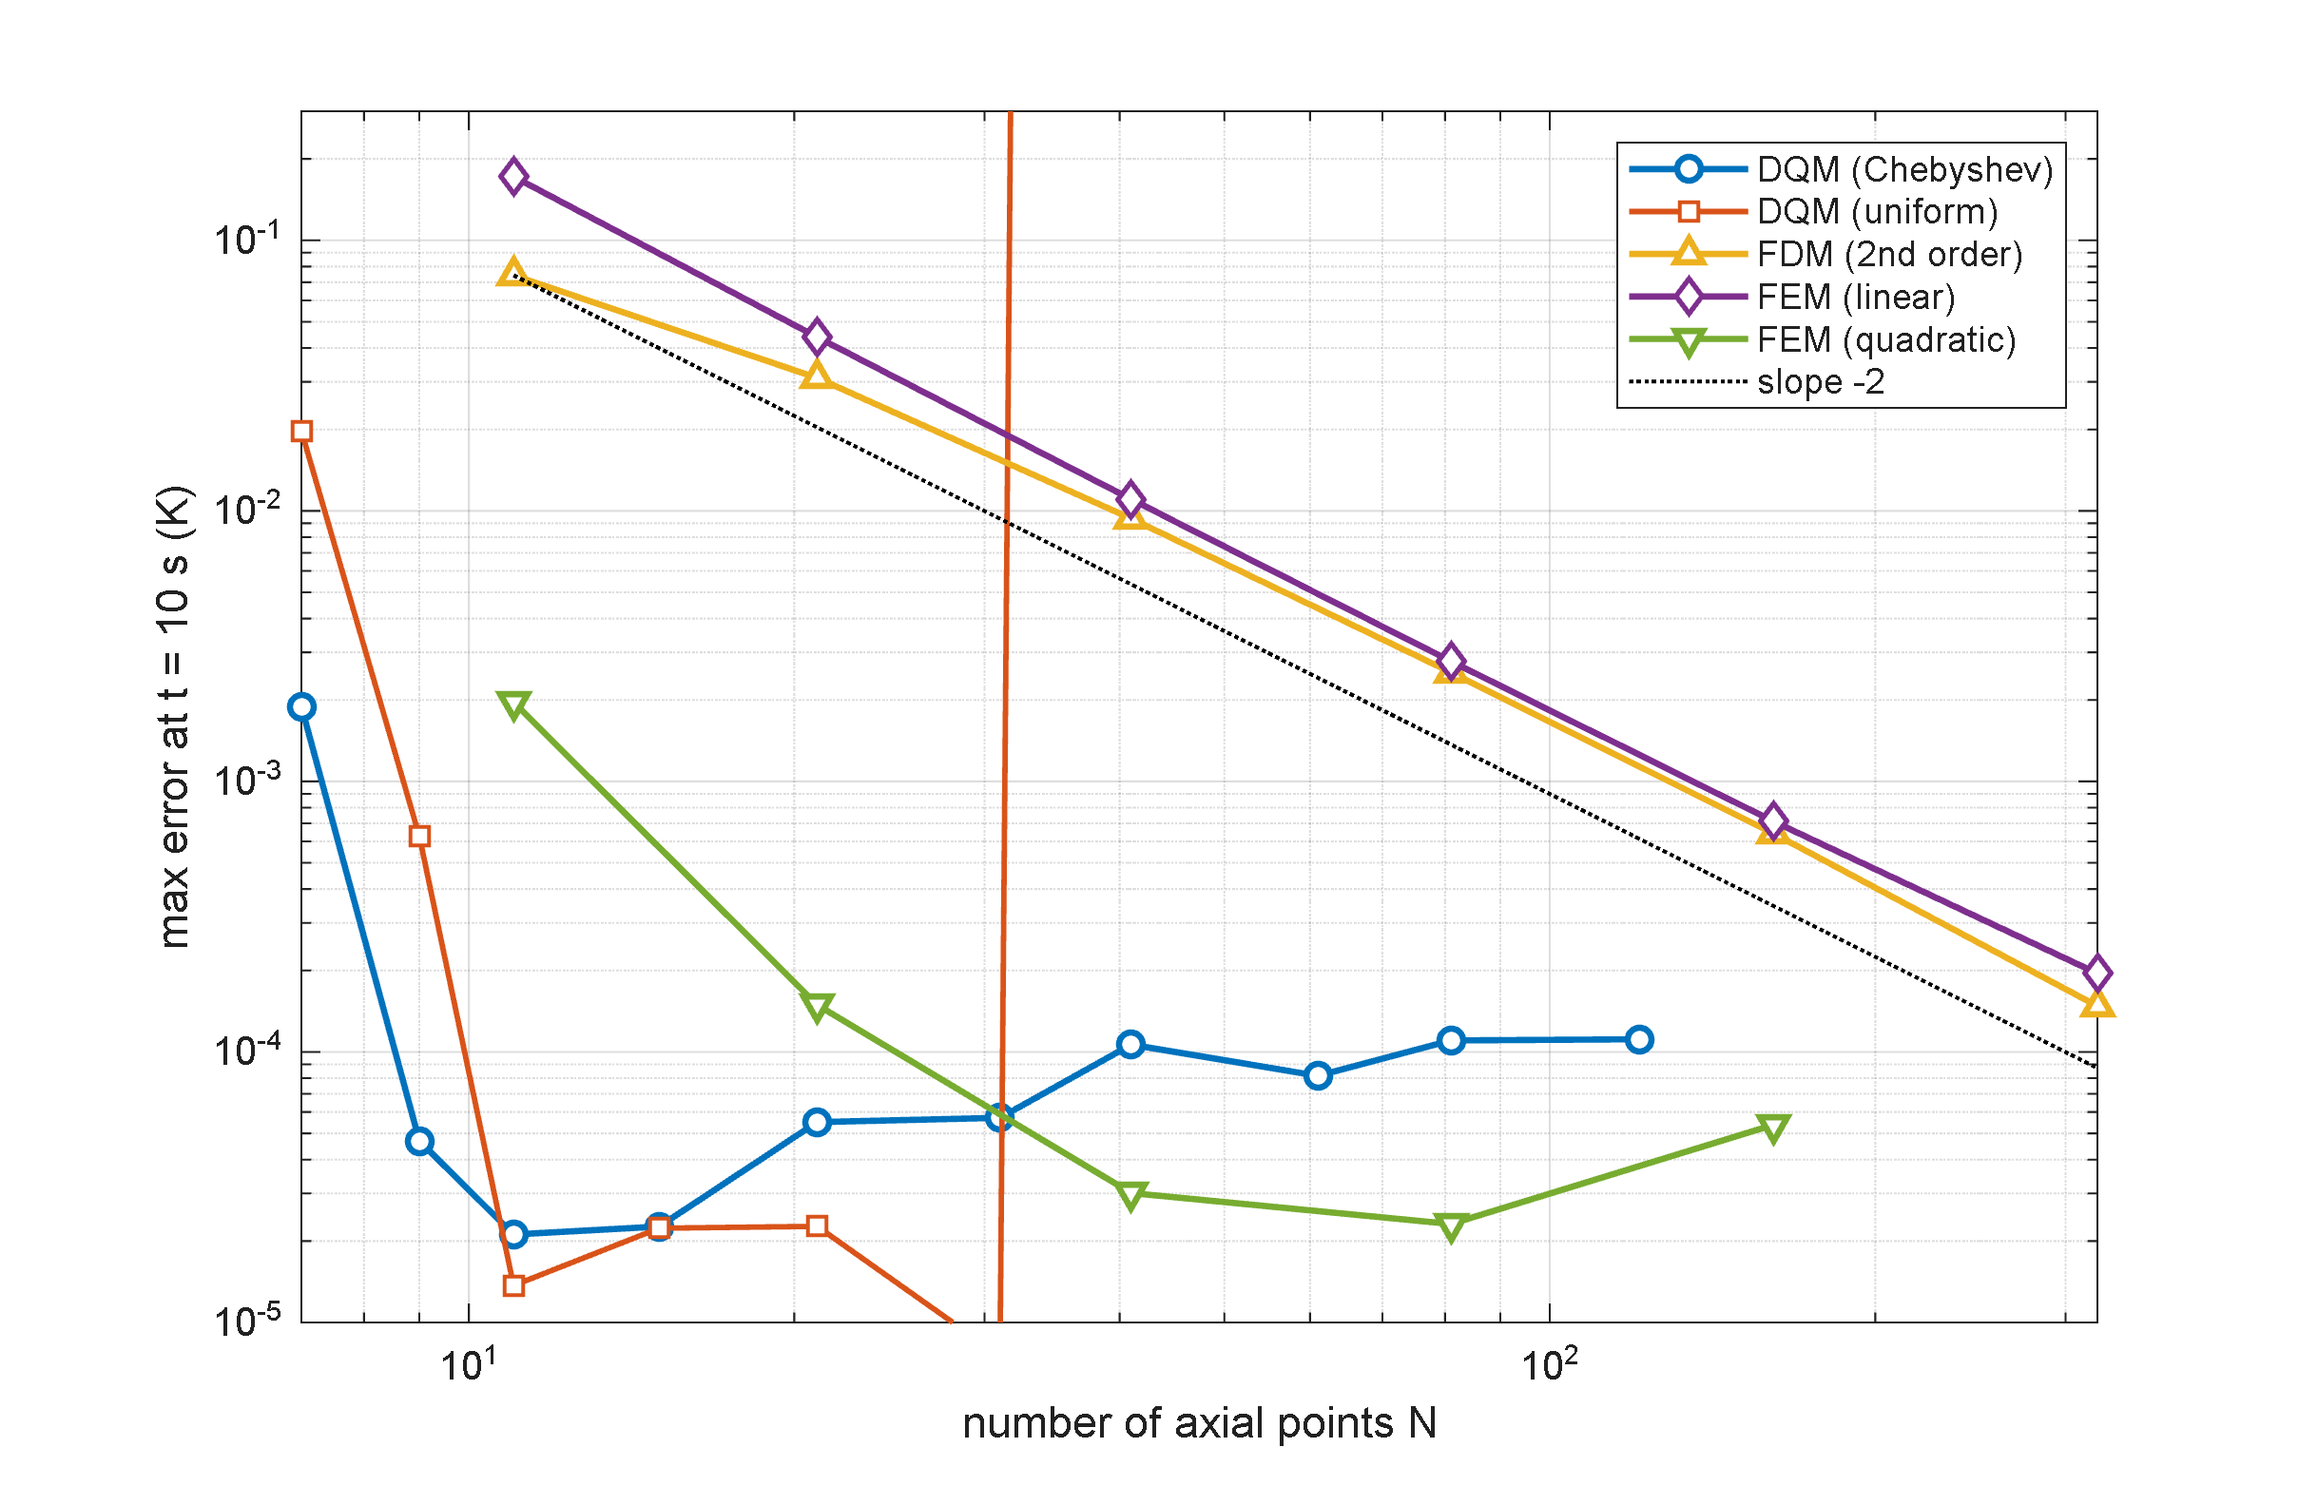
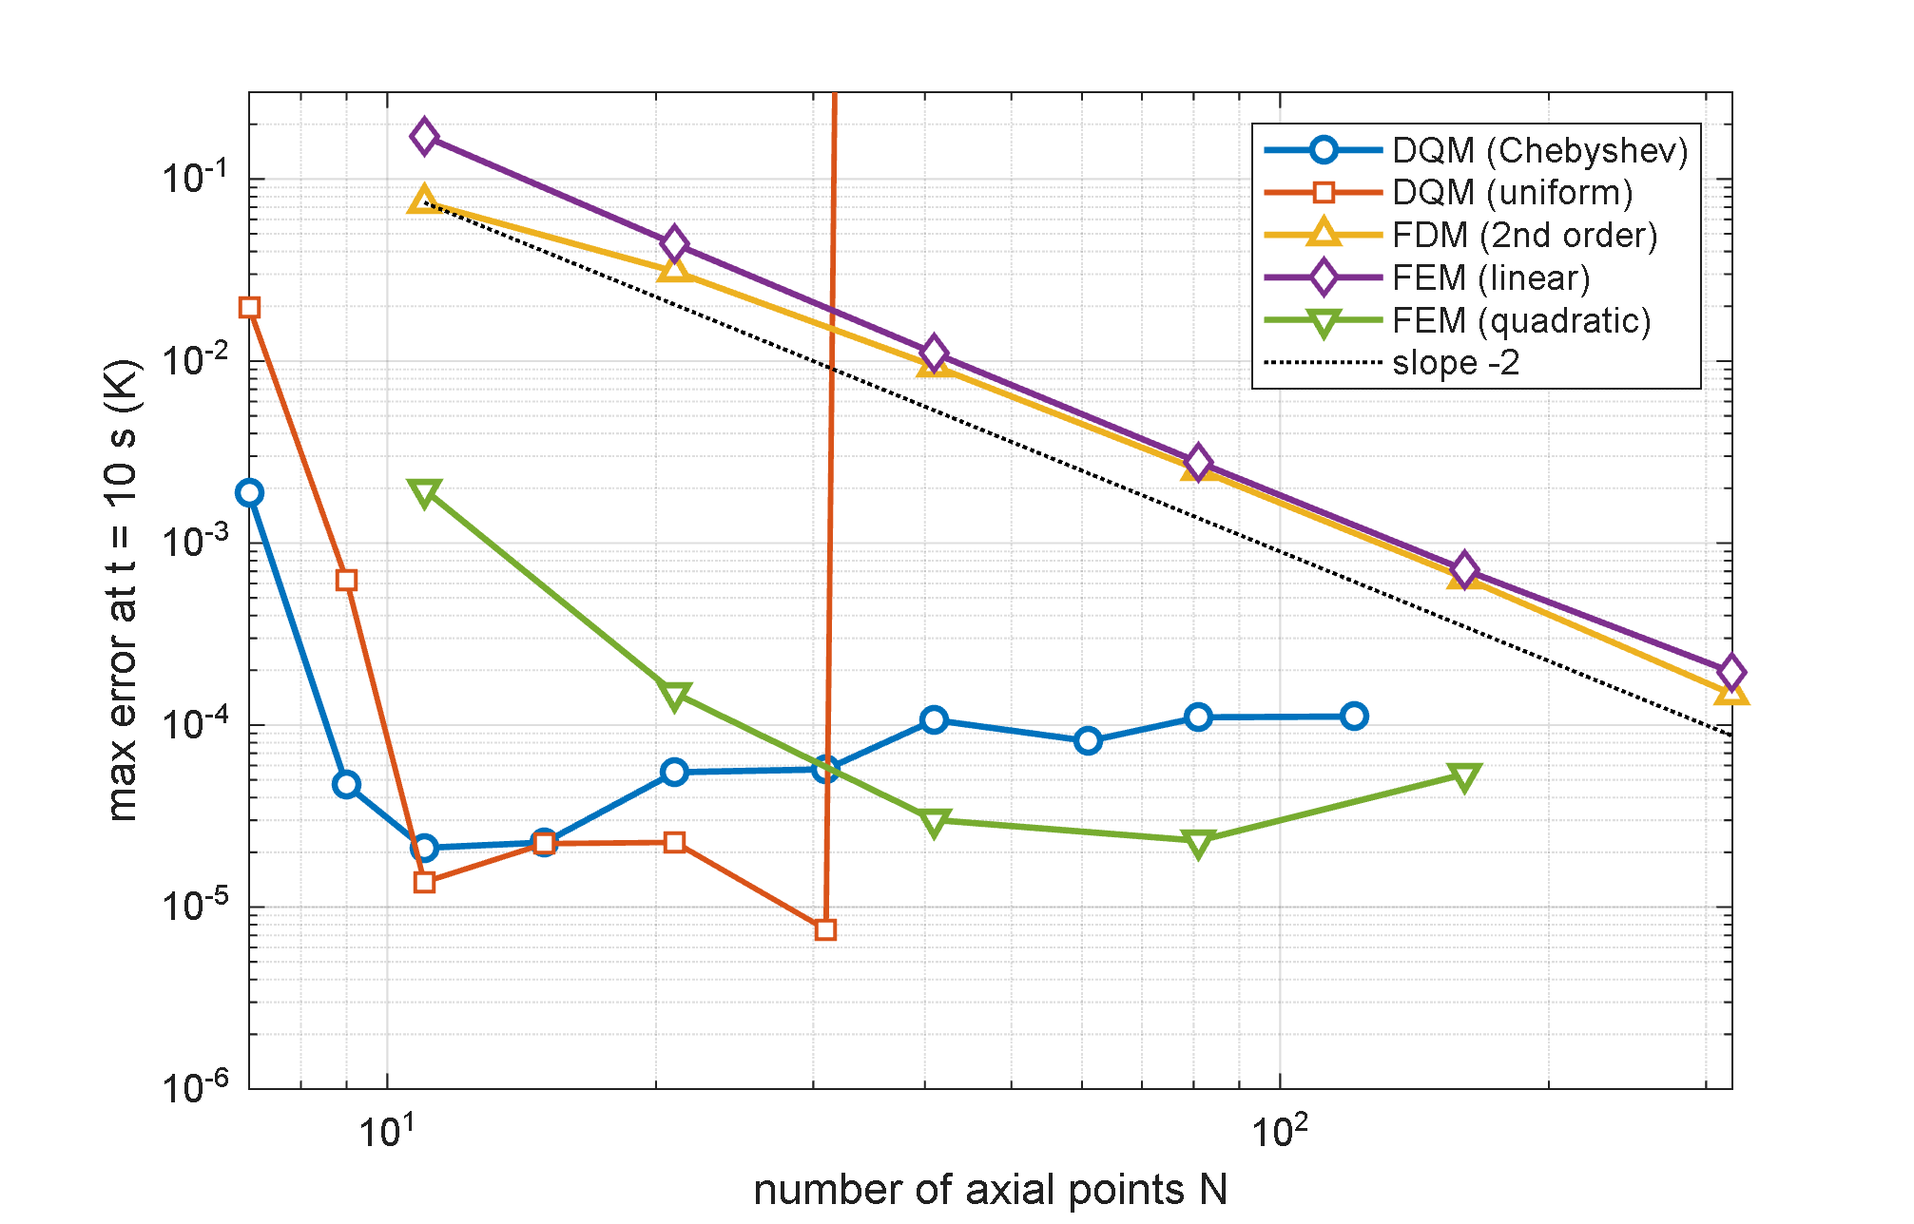
Add T4.1: lower axial-figure y-floor to 1e-6
New revision (T4 kept frozen), figure only, no numeric change:
y-axis floor lowered from 1e-5 to 1e-6 so the lowest DQM(uniform)
point (N=31, err ~7.5e-6) is no longer clipped off the bottom.

diff --git a/claude/code/extensions/claude_T4_1_axial_methods.m b/claude/code/extensions/claude_T4_1_axial_methods.m
@@ -1,0 +1,232 @@
+%% ========================================================================
+%  claude_T4_1_axial_methods.m — AXIAL SPATIAL DISCRETIZATION COMPARISON (T4.1)
+%  ------------------------------------------------------------------------
+%  Revision of claude_T4_axial_methods.m (T4 kept frozen). Change (author
+%  request, figure only — no numeric change): y-axis floor lowered from
+%  1e-5 to 1e-6 so the lowest DQM(uniform) point (N=31, err~7.5e-6) is no
+%  longer clipped off the bottom of the plot.
+%  ------------------------------------------------------------------------
+%  Axial-direction companion to claude_T2_7_spatial_methods.m (which is the
+%  RADIAL benchmark). Author request 2026-08-25: a T2-style figure but for
+%  axial (N_z) nodes. T2's benchmark is a radial annulus (Bessel exact
+%  solution, no z-dependence), so it cannot simply be relabelled — this is
+%  a genuinely separate 1-D AXIAL benchmark with its own exact solution:
+%
+%     finite rod  z in [0, L],  rho*c dth/dt = k d2th/dz2
+%     z = 0 : th = ramp(t) = th0 (1 - e^{-t/t0})        (Dirichlet)
+%     z = L : dth/dz = 0                                 (insulated)
+%     th(z,0) = 0
+%
+%  Exact solution (separation of variables; eigenfunctions sin(bn z) with
+%  bn = (2n-1)pi/(2L) satisfying th(0)=0-perturbation + insulated at L):
+%     th(z,t) = g(t) + sum_n B_n(t) sin(bn z),   g(t)=th0(1-e^{-t/t0})
+%     c_n = 2/(bn L),  lam_n = kappa bn^2,  bD = 1/t0
+%     B_n(t) = -th0 bD c_n /(lam_n - bD) * (e^{-bD t} - e^{-lam_n t})
+%
+%  Same five methods and same display standard as T2_7 (first-edition
+%  palette, white-face markers, slope-2 dotted ref, y-axis capped, legend
+%  top-right). Same Newmark march (dt = 0.01 s) so the error at t = 10 s is
+%  the SPATIAL (axial) error of each method. Cartesian weak form for FEM
+%  (weight 1, no r-weighting) and no 1/r term in the strong-form operators.
+%  Output -> results_extensions\ (figure T4_axial_convergence + table).
+%  New file; reads/writes nothing the solver campaign touches.
+%  ========================================================================
+clearvars; clc; close all;
+
+k_th=50; rho_th=8000; c_th=500; kappa=k_th/(rho_th*c_th);
+Lz=0.02; th0=200; t0r=5;                 % rod length matches radial wall thickness
+t_end=10; dtt=0.01; Ntt=round(t_end/dtt);
+
+%% ---- exact solution (Fourier series) ------------------------------------
+bD=1/t0r; nmax=200;
+nn=(1:nmax).';  bn=(2*nn-1)*pi/(2*Lz);  lamn=kappa*bn.^2;  cn=2./(bn*Lz);
+th_exact = @(z,t) th0*(1-exp(-t/t0r)) + ...
+    sum( (-th0*bD.*cn./(lamn-bD)).*(exp(-bD*t)-exp(-lamn*t)).*sin(bn*z), 1);
+
+% physical parameter bundle for the script-local solver helpers
+P = struct('k',k_th,'rhoc',rho_th*c_th,'th0',th0,'t0r',t0r, ...
+           'dtt',dtt,'Ntt',Ntt,'Lz',Lz);
+
+%% ---- sweeps -------------------------------------------------------------
+fprintf('===== T4.1: AXIAL SPATIAL METHOD CONVERGENCE incl. FEM (error at t=10 s) =====\n');
+Ns_dqm = [7 9 11 15 21 31 41 61 81 121 161 201];
+err_dqm = nan(size(Ns_dqm)); err_dqu = err_dqm;
+for q = 1:numel(Ns_dqm)
+    N = Ns_dqm(q);
+    % global-polynomial DQM ill-conditions at high N (esp. uniform nodes,
+    % Runge blow-up); guard so one bad N doesn't abort the whole sweep.
+    try
+        zC = Lz/2*(1-cos(pi*(0:N-1)/(N-1)));  zC = zC(:);          % Chebyshev
+        thxC = arrayfun(@(zz) th_exact(zz, t_end), zC(:).');
+        [A1,A2] = dqw(zC);      err_dqm(q) = run1d(zC, A1, A2, P, thxC);
+    catch ME
+        fprintf('DQM  N=%3d : cheb FAILED (%s)\n', N, ME.message);
+    end
+    try
+        zU = linspace(0,Lz,N).';                                   % uniform
+        thxU = arrayfun(@(zz) th_exact(zz, t_end), zU(:).');
+        [B1,B2] = dqw(zU);      err_dqu(q) = run1d(zU, B1, B2, P, thxU);
+    catch ME
+        fprintf('DQM  N=%3d : uniform FAILED (%s)\n', N, ME.message);
+    end
+    fprintf('DQM  N=%3d : cheb err=%.3e   uniform err=%.3e\n', N, err_dqm(q), err_dqu(q));
+end
+Ns_fdm = [11 21 41 81 161 321];
+err_fdm = zeros(size(Ns_fdm));
+for q = 1:numel(Ns_fdm)
+    N = Ns_fdm(q);
+    z = linspace(0,Lz,N).';  h = z(2)-z(1);
+    D1 = zeros(N); D2 = zeros(N);
+    for i = 2:N-1
+        D1(i,i-1)=-1/(2*h); D1(i,i+1)=1/(2*h);
+        D2(i,i-1)=1/h^2; D2(i,i)=-2/h^2; D2(i,i+1)=1/h^2;
+    end
+    D1(1,1:3)=[-3 4 -1]/(2*h);  D1(N,N-2:N)=[1 -4 3]/(2*h);   % one-sided
+    thxF = arrayfun(@(zz) th_exact(zz, t_end), z(:).');
+    err_fdm(q) = run1d(z, D1, D2, P, thxF);
+    fprintf('FDM  N=%3d : err=%.3e\n', N, err_fdm(q));
+end
+Ns_fe1 = [11 21 41 81 161 321];              % linear elements (N-1 elements)
+err_fe1 = zeros(size(Ns_fe1));
+for q = 1:numel(Ns_fe1)
+    N = Ns_fe1(q);
+    z = linspace(0,Lz,N).';
+    [Kf,Cf] = femmat(z, 1, P);
+    thxE = arrayfun(@(zz) th_exact(zz, t_end), z(:).');
+    err_fe1(q) = run1d_mat(Kf, Cf, P, thxE);
+    fprintf('FEM1 N=%3d : err=%.3e\n', N, err_fe1(q));
+end
+Ns_fe2 = [11 21 41 81 161];                  % quadratic (odd N, (N-1)/2 elems)
+err_fe2 = zeros(size(Ns_fe2));
+for q = 1:numel(Ns_fe2)
+    N = Ns_fe2(q);
+    z = linspace(0,Lz,N).';
+    [Kf,Cf] = femmat(z, 2, P);
+    thxE = arrayfun(@(zz) th_exact(zz, t_end), z(:).');
+    err_fe2(q) = run1d_mat(Kf, Cf, P, thxE);
+    fprintf('FEM2 N=%3d : err=%.3e\n', N, err_fe2(q));
+end
+
+%% ---- figure (same display standard as T2_7) ----------------------------
+outdir='results_extensions';  fdir=fullfile(outdir,'figures');
+if ~exist(fdir,'dir'), mkdir(fdir); end
+fig = figure('Position',[100 100 780 560],'Color','w');
+cBlue=[0 0.4470 0.7410]; cRed=[0.8500 0.3250 0.0980]; cYel=[0.9290 0.6940 0.1250];
+cPur=[0.4940 0.1840 0.5560]; cGrn=[0.4660 0.6740 0.1880];
+loglog(Ns_dqm, err_dqm, 'o-', 'Color',cBlue,'LineWidth',1.6,'MarkerSize',6,'MarkerFaceColor','w'); hold on;
+loglog(Ns_dqm, err_dqu, 's-', 'Color',cRed, 'LineWidth',1.4,'MarkerSize',6,'MarkerFaceColor','w');
+loglog(Ns_fdm, err_fdm, '^-', 'Color',cYel, 'LineWidth',1.6,'MarkerSize',6,'MarkerFaceColor','w');
+loglog(Ns_fe1, err_fe1, 'd-', 'Color',cPur, 'LineWidth',1.6,'MarkerSize',6,'MarkerFaceColor','w');
+loglog(Ns_fe2, err_fe2, 'v-', 'Color',cGrn, 'LineWidth',1.6,'MarkerSize',6,'MarkerFaceColor','w');
+loglog(Ns_fdm, err_fdm(1)*(Ns_fdm(1)./Ns_fdm).^2, 'k:', 'LineWidth',1);
+xlabel('number of axial points N'); ylabel('max error at t = 10 s (K)');
+legend('DQM (Chebyshev)','DQM (uniform)','FDM (2nd order)', ...
+       'FEM (linear)','FEM (quadratic)','slope -2','Location','northeast');
+grid on; box on;
+% axial problem resolves to lower error than the radial T2 case, so the
+% y-axis extends down to 1e-6 to reveal the full DQM / quadratic-FEM
+% convergence — incl. the lowest DQM(uniform) point (N=31, ~7.5e-6) —
+% instead of clipping it. Top still capped so the divergent uniform-DQM
+% branch (~1e50) doesn't flatten the readable curves.
+ylim([1e-6 3e-1]);
+saveas(fig, fullfile(fdir,'T4_axial_convergence.fig'));
+print(fig, fullfile(fdir,'T4_axial_convergence.png'), '-dpng','-r300');
+T = table([Ns_dqm.'; Ns_dqm.'; Ns_fdm.'; Ns_fe1.'; Ns_fe2.'], ...
+    [err_dqm.'; err_dqu.'; err_fdm.'; err_fe1.'; err_fe2.'], ...
+    [repmat("DQM-cheb",numel(Ns_dqm),1); repmat("DQM-unif",numel(Ns_dqm),1); ...
+     repmat("FDM",numel(Ns_fdm),1); repmat("FEM-lin",numel(Ns_fe1),1); ...
+     repmat("FEM-quad",numel(Ns_fe2),1)], ...
+    'VariableNames', {'N','max_err_K','method'});
+writetable(T, fullfile(outdir,'T4_axial_table.csv'));
+fprintf('Saved %s\\figures\\T4_axial_convergence + T4_axial_table.csv\n', outdir);
+
+%% ---- helpers ------------------------------------------------------------
+function err = run1d(z, D1, D2, P, thx)
+    % 1-D axial (Cartesian) transient conduction: end ramp + insulated end.
+    N = numel(z);
+    K = zeros(N); Cm = zeros(N);
+    for i = 2:N-1
+        K(i,:) = -P.k*D2(i,:);          % no 1/r term (Cartesian rod)
+        Cm(i,i) = P.rhoc;
+    end
+    K(1,1) = 1;                          % theta = ramp(t) at z=0
+    K(N,:) = P.k*D1(N,:);               % insulated: k dtheta/dz = 0 at z=L
+    err = march(K, Cm, P, thx);
+end
+
+function err = run1d_mat(K, Cm, P, thx)
+    err = march(K, Cm, P, thx);
+end
+
+function err = march(K, Cm, P, thx)
+    N = size(K,1);
+    s_row = max(abs([K, (2/P.dtt)*Cm]),[],2); s_row(s_row==0)=1;
+    K = K./s_row; Cm = Cm./s_row; rs1 = 1/s_row(1);
+    a0=1/(0.25*P.dtt^2); a1=0.5/(0.25*P.dtt); a2=1/(0.25*P.dtt); a3=1;
+    a4=1; a5=0; a6=P.dtt*0.5; a7=P.dtt*0.5;
+    Keff = K + a1*Cm;                               % M = 0 (Fourier)
+    x=zeros(N,1); xd=x; xdd=x;
+    [Lf,Uf,pp] = lu(Keff,'vector');
+    for n = 1:P.Ntt
+        t = n*P.dtt;
+        F = zeros(N,1);  F(1) = P.th0*(1-exp(-t/P.t0r))*rs1;
+        rhs = F + Cm*(a1*x + a4*xd + a5*xdd);
+        xn = Uf\(Lf\rhs(pp));
+        xddn = a0*(xn-x) - a2*xd - a3*xdd;
+        xd = xd + a6*xdd + a7*xddn;  x = xn;  xdd = xddn;
+    end
+    err = max(abs(x(2:end-1).' - thx(2:end-1)));
+end
+
+function [K, Cm] = femmat(z, order, P)
+    % Galerkin FEM for  rho*c dth/dt - k th'' = 0  on [0,Lz] (Cartesian):
+    %   K_ij  = int k Ni' Nj' dz     Cm_ij = int rho*c Ni Nj dz
+    % insulated end at z=Lz is the natural BC (nothing added); Dirichlet
+    % ramp at z=0 enforced by the constraint row. order 1: linear; 2: quad.
+    N = numel(z);
+    K = zeros(N); Cm = zeros(N);
+    if order == 1
+        for e = 1:N-1
+            Le = z(e+1)-z(e); idx=[e e+1];
+            Ke = P.k/Le*[1 -1; -1 1];
+            Ce = P.rhoc*Le/6*[2 1; 1 2];
+            K(idx,idx)  = K(idx,idx)  + Ke;
+            Cm(idx,idx) = Cm(idx,idx) + Ce;
+        end
+    else
+        assert(mod(N,2)==1, 'quadratic FEM needs odd N');
+        gp = [-sqrt(3/5) 0 sqrt(3/5)];  gw = [5/9 8/9 5/9];
+        for e = 1:(N-1)/2
+            idx = 2*e-1 : 2*e+1;  ze = z(idx);  Le = ze(3)-ze(1);
+            Ke = zeros(3); Ce = zeros(3);
+            for g = 1:3
+                xi = gp(g);
+                Nsh  = [xi*(xi-1)/2, 1-xi^2, xi*(xi+1)/2];
+                dNxi = [xi-1/2,      -2*xi,  xi+1/2];
+                dNdz = dNxi*(2/Le);
+                Ke = Ke + gw(g)*P.k    *(dNdz.'*dNdz)*(Le/2);
+                Ce = Ce + gw(g)*P.rhoc *(Nsh.' *Nsh )*(Le/2);
+            end
+            K(idx,idx)  = K(idx,idx)  + Ke;
+            Cm(idx,idx) = Cm(idx,idx) + Ce;
+        end
+    end
+    K(1,:) = 0; K(1,1) = 1; Cm(1,:) = 0;   % Dirichlet constraint row at z=0
+end
+
+function [A,B] = dqw(x)
+    N = numel(x);  A = zeros(N);
+    for i = 1:N
+        for j = 1:N
+            if i~=j
+                num=1; den=1;
+                for k=1:N
+                    if k~=i && k~=j, num=num*(x(i)-x(k)); den=den*(x(j)-x(k)); end
+                end
+                A(i,j) = num/(den*(x(j)-x(i)));
+            end
+        end
+    end
+    for i=1:N, A(i,i) = -sum(A(i,:)); end
+    B = A*A;
+end

diff --git a/claude/REVISIONS.md b/claude/REVISIONS.md
@@ -29,7 +29,7 @@
 | Artifact | Current | History |
 |---|---|---|
 | `claude_T2*_spatial_methods.m` (spatial-discretization comparison: DQM vs FDM vs FEM) | **T2.7** | T2 (archived, superseded) → **T2_1** = added FEM (linear + quadratic Galerkin) alongside DQM/FDM, kept T2 frozen → **T2.2 (2026-08-22, minor)** = extended the DQM node sweep from `[7 9 11 15 21 31]` to `[7 9 11 15 21 31 41 61 81 121 161 201]` (author request: DQM curves stopped around N≈20–31 while FDM/FEM ran out to N=321, making the comparison look incomplete). Finding: **Chebyshev-node DQM stays well-conditioned and plateaus at the same temporal-error floor (~1.1e-3 K) as FDM/FEM all the way through N=121**, then fails (NaN) at N≥161 — evidence it converges over a comparable range, just like FEM. **Uniform-node DQM diverges catastrophically beyond N=31** (error ~1e47–1e52 at N=41/61, then NaN) — classic Runge-phenomenon ill-conditioning of a global polynomial basis on equally spaced nodes; annotated directly on the figure rather than left unexplained. y-axis capped at `[1e-4, 3e-1]` so the divergent uniform-DQM branch doesn't flatten the readable curves. `T2_1` kept frozen/untouched — the fix was made in a new `T2_2` copy per the revision-number rule. → **T2.3 (2026-08-24, minor, styling only)** = legend moved `southwest`→`northeast`; removed the "DQM (uniform) diverges for N≥41" text annotation (author request — also brings this figure in line with the project's no-floating-text plotting rule, §7, which this script had missed). No numeric change. `T2_2` kept frozen/untouched. → **T2.4 (2026-08-24, minor, styling only)** = line colors switched back to the "first edition" palette (blue/red/yellow/purple/green, MATLAB's default color order) that the original archived `T2` figure used, replacing T2_1–T2_3's blue/magenta/red/green/black scheme; slope-2 reference line solid→dotted; markers changed to hollow (no fill) instead of solid-filled (author requests). No numeric change. `T2_3` kept frozen/untouched. → **T2.5 (2026-08-24, minor, styling only)** = connecting lines removed from the data series — markers only (slope-2 dotted reference line kept) (author request). No numeric change. `T2_4` kept frozen/untouched. → **T2.6 (2026-08-24, minor, styling only)** = connecting lines restored between markers (author wants first-edition look: colored lines + hollow markers together). No numeric change. `T2_5` kept frozen/untouched. → **T2.7 (2026-08-24, minor, styling only)** = markers switched to white-face (author request: match the same display standard as the other Chapter 4 figures, e.g. `claude_catalog_bestworst.m` — colored solid line + colored marker edge + white fill, so the line is masked inside each marker glyph but stays visible between markers). No numeric change. `T2_6` kept frozen/untouched. |
-| `claude_T4_axial_methods.m` (AXIAL-direction spatial-method comparison: DQM vs FDM vs FEM) | **T4** | New (2026-08-25, author request): the axial companion to T2 (which is radial-only — its Bessel benchmark has no z-dependence, so it can't just be relabelled). Own separate 1-D **axial** benchmark: a finite rod on [0,L], `rho c θ_t = k θ_zz`, Dirichlet ramp at z=0 + insulated at z=L, with an exact Fourier-series solution (eigenfunctions sin(bₙz), bₙ=(2n-1)π/2L). Same five methods, same display standard as T2.7 (first-edition palette, white-face markers, dotted slope-2, top-right legend); y-floor lowered to 1e-5 (this axial problem resolves ~1 decade finer than radial, so T2's 1e-4 floor would clip the DQM/quadratic-FEM data). **Finding mirrors the radial T2 result**: DQM-Chebyshev and quadratic-FEM are the most efficient per node (reach ~2–5e-5 by N≈11–21); uniform-node DQM Runge-diverges past N≈31 (~1e50); FDM and linear-FEM show clean 2nd-order (slope-2) convergence and need ~15× more nodes than DQM/quad-FEM to match — consistent with the thesis's "DQM ≈15× fewer nodes than FDM/linear-FEM" claim in both directions. Output → `results_extensions/figures/T4_axial_convergence.png/.fig` + `T4_axial_table.csv`. |
+| `claude_T4*_axial_methods.m` (AXIAL-direction spatial-method comparison: DQM vs FDM vs FEM) | **T4.1** | New (2026-08-25, author request): the axial companion to T2 (which is radial-only — its Bessel benchmark has no z-dependence, so it can't just be relabelled). Own separate 1-D **axial** benchmark: a finite rod on [0,L], `rho c θ_t = k θ_zz`, Dirichlet ramp at z=0 + insulated at z=L, with an exact Fourier-series solution (eigenfunctions sin(bₙz), bₙ=(2n-1)π/2L). Same five methods, same display standard as T2.7 (first-edition palette, white-face markers, dotted slope-2, top-right legend); y-floor lowered to 1e-5 (this axial problem resolves ~1 decade finer than radial, so T2's 1e-4 floor would clip the DQM/quadratic-FEM data). **Finding mirrors the radial T2 result**: DQM-Chebyshev and quadratic-FEM are the most efficient per node (reach ~2–5e-5 by N≈11–21); uniform-node DQM Runge-diverges past N≈31 (~1e50); FDM and linear-FEM show clean 2nd-order (slope-2) convergence and need ~15× more nodes than DQM/quad-FEM to match — consistent with the thesis's "DQM ≈15× fewer nodes than FDM/linear-FEM" claim in both directions. Output → `results_extensions/figures/T4_axial_convergence.png/.fig` + `T4_axial_table.csv`. → **T4.1 (2026-08-25, minor, figure only)** = y-axis floor lowered 1e-5→1e-6 so the lowest DQM(uniform) point (N=31, err≈7.5e-6) is no longer clipped off the bottom (author request). No numeric change. `T4` kept frozen/untouched. |
 
 
 ### 2b. Exploratory convergence study (author request 2026-08-24; NOT the locked reference mesh)
